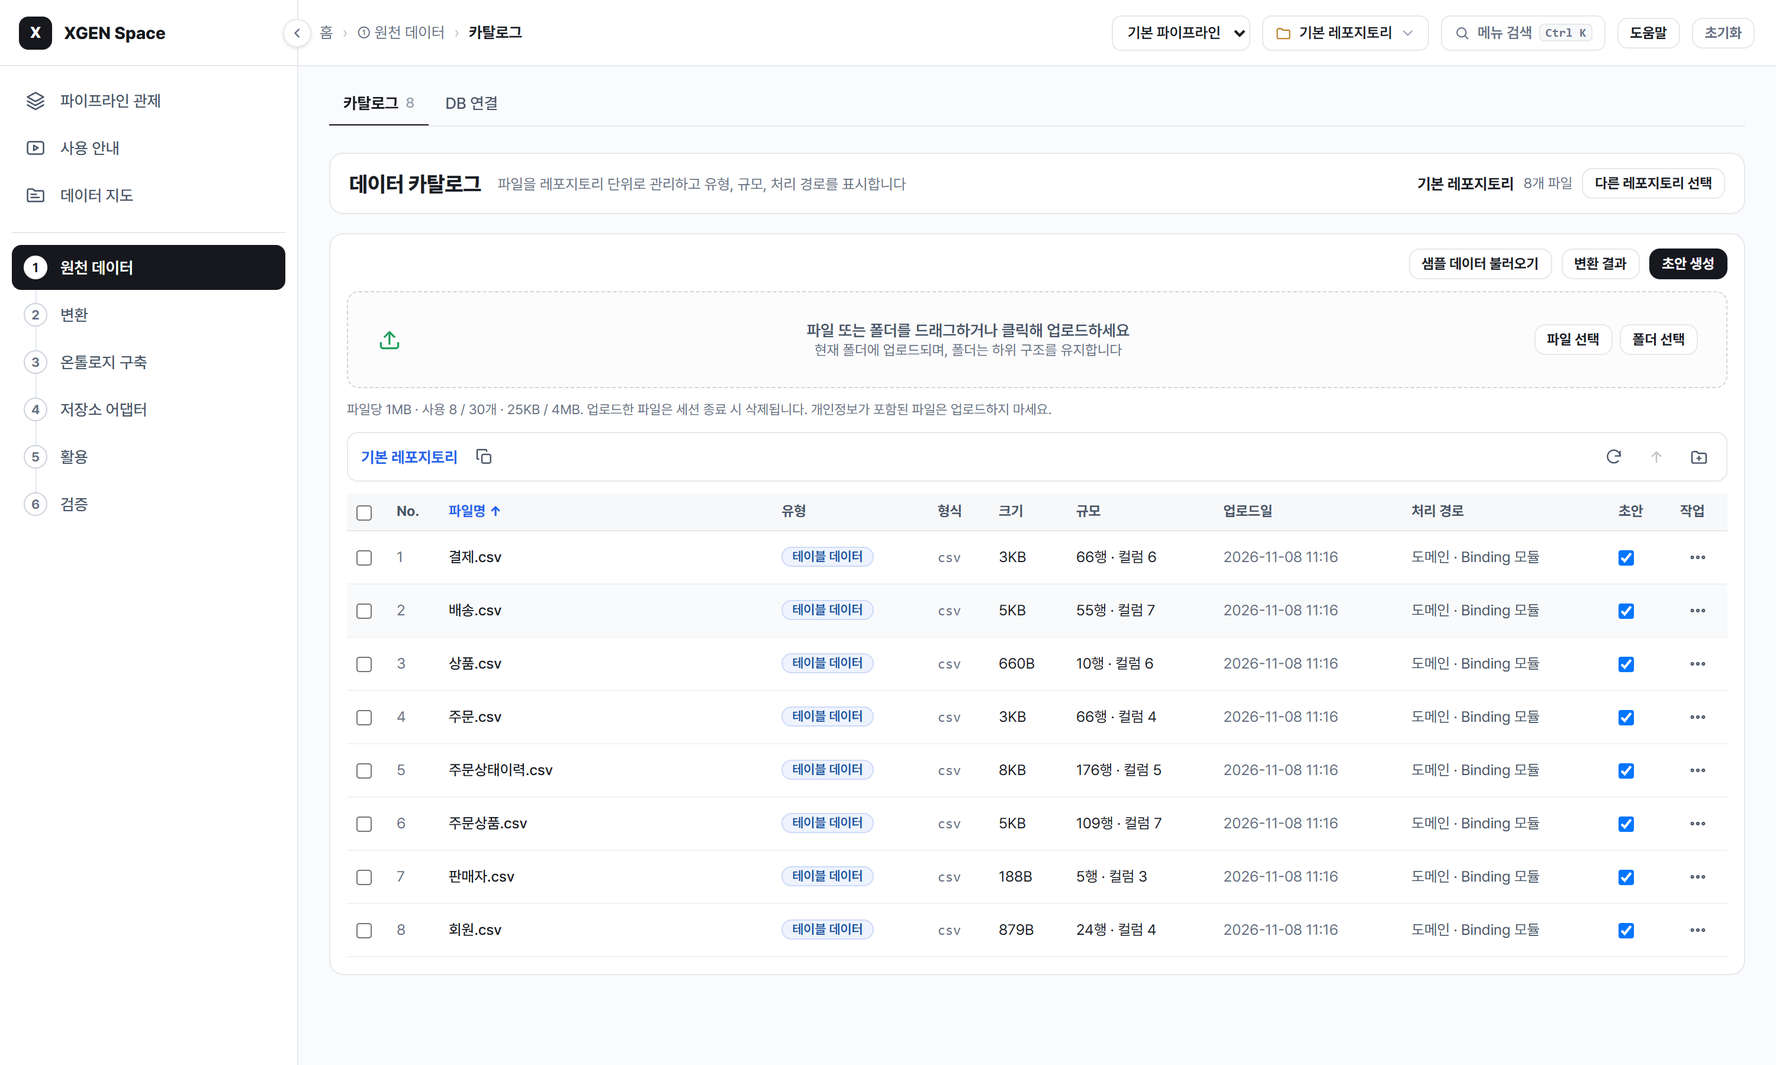
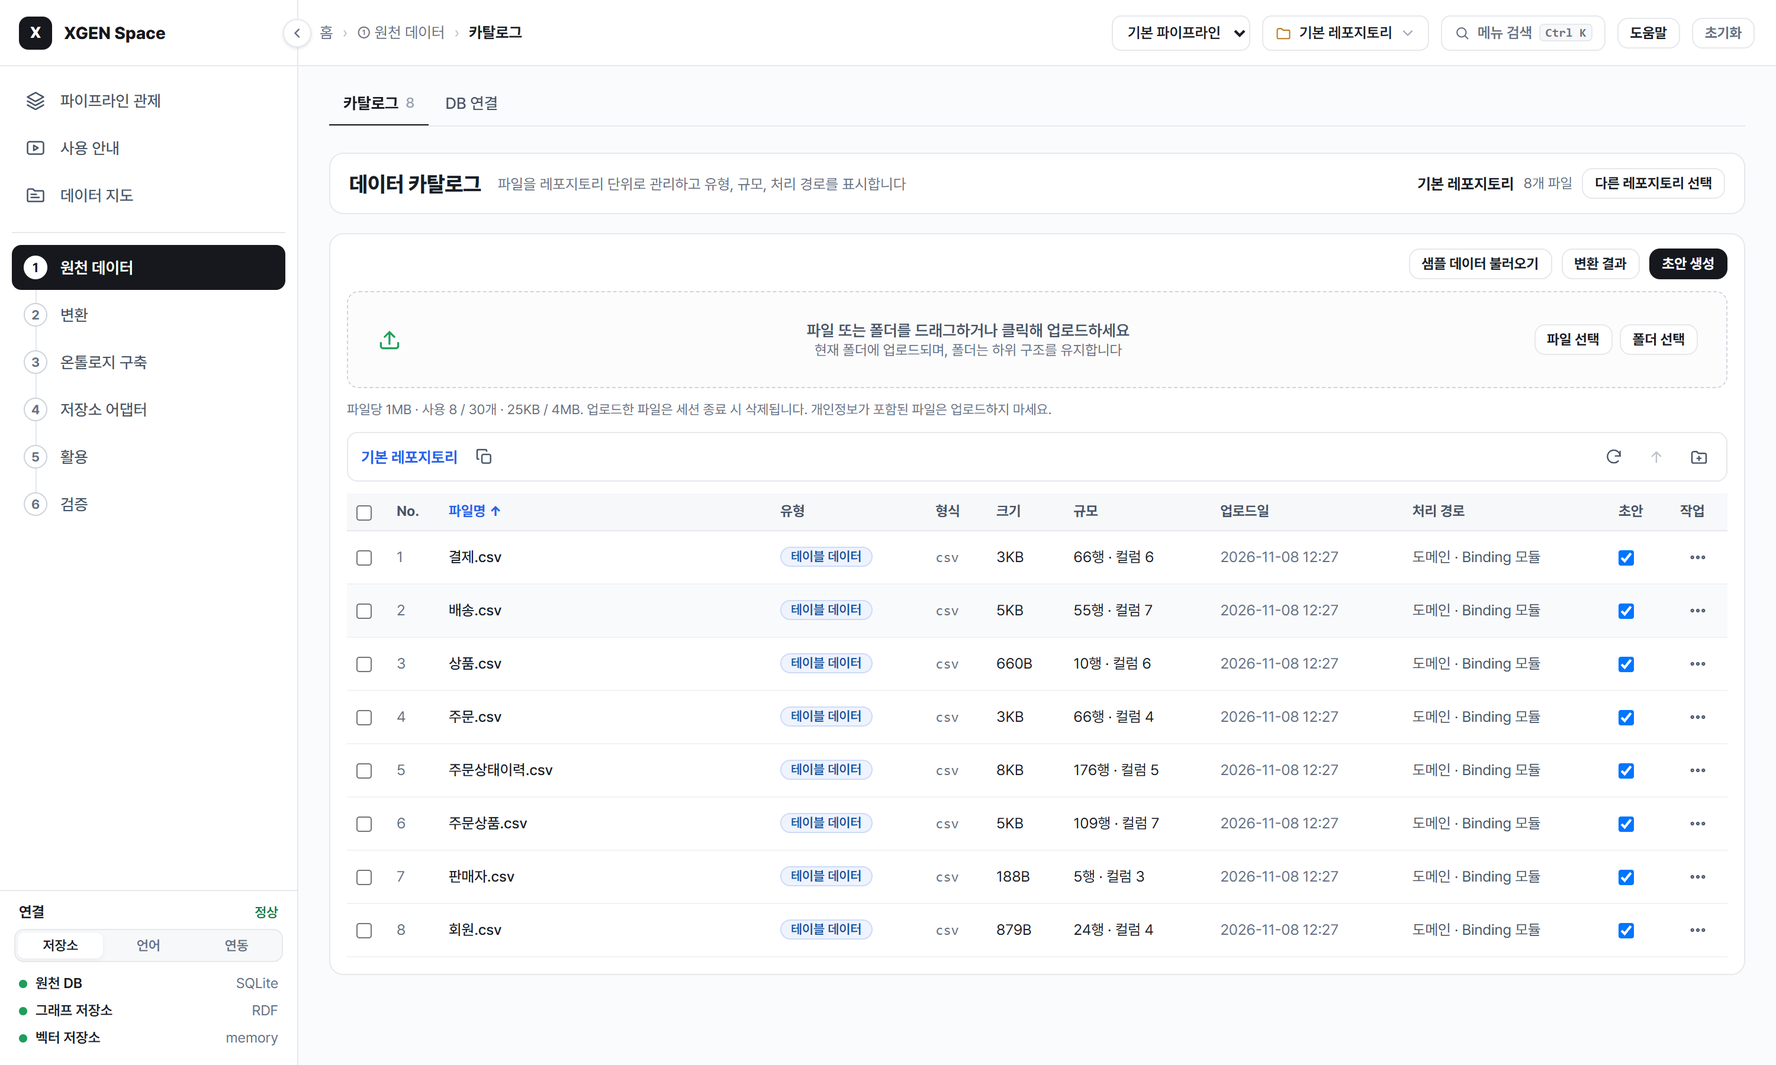
Show at the foot of the sidebar what the space is connected to, tried now
The card removed in the last commit was the right place with the wrong
content: it named the domain modules and listed the stores by their
configuration keys, with a green dot that was never measured. The place
now says what is connected, and the dots are measurements.

- GET connections tries each store with a one-row query and gives its
  kind, the language it reads, the response time, or why it did not
  answer; the vector stores by the error the space keeps; the embedding
  model; the language model by how its last call went (off, not called
  yet, answered, failed); and whether the REST API is served.
- The sidebar shows it under three tabs, stores, languages and links, with
  a green, red or grey dot per row; a row opens the screen that measures
  it, and its tooltip gives the response time or the error. The header
  says whether anything does not answer. It is fetched when the page
  opens, when the pipeline changes and every 30 seconds while the page
  is visible. Folded and narrow sidebars leave it out, as before.
- A store class says its kind (sqlite, rdflib, sparql, neo4j, gremlin,
  gateway, dbapi), so a store opened by a draft is named as well as one
  from a configuration file. A model client from openai_chat says its
  kind. The session keeps how the model's last call went.
- The adapters screen and the connections share one helper for the
  language a store reads.
- The board's help says what the dots mean.

The README images are rendered again with the panel.

diff --git a/src/xgen_space/web/static/app.js b/src/xgen_space/web/static/app.js
@@ -96,6 +96,7 @@
       '수치를 선택하면 해당 화면으로 이동합니다. 상단 탭에서 단계를 선택하면 해당 단계를 강조합니다.',
       '통과 조건을 충족하지 못한 단계가 있으면 해당 단계에서 흐름이 중단됩니다. 연쇄 장애에서 원인 경로를 확인합니다.',
       '화면 상단의 파이프라인 목록에서 적용한 파이프라인을 선택해 전환합니다. 초안을 적용하면 새 파이프라인이 추가됩니다.',
+      '사이드바 아래 [연결]은 저장소, 쿼리 언어, 연동 항목이 지금 응답하는지 30초마다 확인해 표시합니다. 초록은 응답, 빨강은 응답 없음, 회색은 사용하지 않거나 아직 호출하지 않은 항목입니다.',
       '[장애 테스트]를 선택하면 설정한 장애 시나리오를 적용해 알람과 원인 경로를 확인합니다. [복구]를 선택하면 원래 상태로 복원됩니다.']],
     ['flow', '원천 데이터부터 검증까지 단계별 처리 현황과 통과 조건을 확인합니다.', [
       '단계별 카드에서 [열기]를 선택하면 해당 화면으로 이동합니다.',
@@ -321,7 +322,7 @@
     st: null, tab: 'library', kind: 'all', impact: null, pos: {}, sel: null, gsel: null, obj: null,
     ru: null, met: {}, sp: null, sr: { text: '', res: null, busy: false, more: null, moreBusy: false }, dg: null, dgsel: null, dsec: null, dq: null, docpos: {},
     vs: { kind: 'qdrant', url: '' }, gw: { url: '', connection: '', dialect: 'postgres', token: '' }, ad: null, adrep: null, adbusy: false, adrs: null,
-    ex: { tree: null, items: null, node: '', open: { 'group:repos': true }, tab: 'store', q: '', kind: '', hits: null, sel: {}, tsel: {}, edit: null, moving: null, busy: false, loading: false, error: '' }, amap: null, mapn: null, mapsel: null, mappos: {}, conn: null, help: false,
+    ex: { tree: null, items: null, node: '', open: { 'group:repos': true }, tab: 'store', q: '', kind: '', hits: null, sel: {}, tsel: {}, edit: null, moving: null, busy: false, loading: false, error: '' }, amap: null, mapn: null, mapsel: null, mappos: {}, conn: null, links: null, ltab: 'store', help: false,
     q: { mode: 'list', name: null, params: {}, role: '', principal: {}, target: 'sql:postgres', res: null,
       lang: 'sparql', text: '', dirty: false, question: '', busy: false },
     d: { name: null, key: null, keys: {}, res: null, proposal: null, params: {}, role: '', audit: [], busy: false },
@@ -467,7 +468,44 @@
     return `<nav class="stabs" aria-label="${esc(g[1])}">${g[2].map(tab).join('')}${seg}</nav>`;
   }
 
+  // ---- what the space is connected to: the server tries each store when asked, so a dot is a measurement, never a default --
+  const LINKS_EVERY = 30000;
+  const LINK_WORD = { ok: '연결', bad: '응답 없음', idle: '호출 전', off: '사용 안 함' };
+  const LLM_KIND = { openai: 'OpenAI 호환 API' };
+
+  async function loadLinks() {
+    if (loadLinks.busy) return;
+    loadLinks.busy = true;
+    loadLinks.at = Date.now();
+    try { S.links = await api('connections'); } catch (e) { /* the last measurement stays until the next one */ }
+    loadLinks.busy = false;
+    renderSide();
+  }
+
+  function sideLinks() {
+    const c = S.links;
+    if (!c) return '';
+    const row = (state, name, detail, tab, tip) => `<a class="lrow" href="#${tab}" data-tip="${esc(tip)}"><i class="dot ${state}"></i><b>${esc(name)}</b><span>${esc(detail)}</span></a>`;
+    const role = (b) => (b.source ? '원천 DB' : '그래프 저장소');
+    const said = (b) => b.error || `${LINK_WORD[b.state]} · 응답 ${b.ms}ms`;
+    const llm = c.llm.state === 'ok' ? (LLM_KIND[c.llm.kind] || LINK_WORD.ok) : LINK_WORD[c.llm.state];
+    const rows = {
+      store: c.stores.map((b) => row(b.state, role(b), BACKEND_KIND[b.kind] || b.kind || b.name, 'adapters', said(b)))
+        .concat(c.vectors.map((v) => row(v.state, '벡터 저장소', v.kind, 'vectors', v.error || LINK_WORD[v.state]))),
+      lang: c.stores.map((b) => row(b.state, b.language, role(b), 'query', said(b)))
+        .concat(c.translate.length ? [row('off', '변환만', `${count(c.translate.length)}개 언어`, 'adapters', c.translate.join(', '))] : []),
+      link: [row('ok', '임베딩 모델', `${c.embedder.kind} · ${c.embedder.dim}차원`, 'vectors', c.embedder.name),
+        row(c.llm.state, '언어 모델', llm, 'search', c.llm.error || (c.llm.at ? `마지막 호출 ${c.llm.at.replace('T', ' ')}` : LINK_WORD[c.llm.state])),
+        row(c.rest ? 'ok' : 'off', '외부 API', c.rest ? '/v1' : LINK_WORD.off, 'connect', c.rest ? 'REST /v1' : '')],
+    };
+    const bad = c.stores.concat(c.vectors, [c.llm]).filter((x) => x.state === 'bad').length;
+    const tabs = [['store', '저장소'], ['lang', '언어'], ['link', '연동']].map(([k, w]) => `<button class="${S.ltab === k ? 'on' : ''}" data-act="ltab" data-k="${k}" role="tab" aria-selected="${S.ltab === k}">${w}</button>`).join('');
+    return `<div class="sfoot"><div class="lhead"><b>연결</b><span class="${bad ? 'bad' : 'ok'}">${bad ? `응답 없음 ${bad}` : '정상'}</span></div>
+      <div class="lseg" role="tablist" aria-label="연결 종류">${tabs}</div><div class="lrows">${rows[S.ltab].join('')}</div></div>`;
+  }
+
   function renderSide() {
+    if (S.st && !loadLinks.busy && (!S.links || S.links.pipeline !== S.st.pipeline || Date.now() - (loadLinks.at || 0) > LINKS_EVERY)) loadLinks();
     const wait = S.mg.st && S.mg.st.workspace && S.mg.st.workspace.dirty;
     const place = (i) => {
       const [no, label, keys] = NAV_GROUP[i];
@@ -481,7 +519,7 @@
     const word = S.slim ? '사이드바 펼치기' : '사이드바 접기';
     const nav = $('#side .snav');
     const kept = nav ? nav.scrollTop : 0;
-    $('#side').innerHTML = `${BRAND}<div class="snav"><div class="nlead">${at((g) => !g[0])}</div><div class="steps">${at((g) => g[0])}</div></div>
+    $('#side').innerHTML = `${BRAND}<div class="snav"><div class="nlead">${at((g) => !g[0])}</div><div class="steps">${at((g) => g[0])}</div></div>${sideLinks()}
       <button class="sidetoggle" data-act="slim" aria-label="${word}" aria-expanded="${!S.slim}" data-tip="${word}">${ui('fold')}</button>`;
     $('#side .snav').scrollTop = kept;
     if (S.tab !== renderSide.tab) {
@@ -3979,6 +4017,7 @@ ${controls}${body}`;
     fsample: () => catalogCall('files/sample', {}),
     fout: (t) => catalogCall('catalog/include', { paths: [t.dataset.name], on: false }),
     ruopen: (t) => { S.ruopen = S.ruopen === t.dataset.d ? null : t.dataset.d; render(); },
+    ltab: (t) => { S.ltab = t.dataset.k; renderSide(); },
     slim: () => {
       S.slim = !S.slim;
       try { localStorage.setItem('xspace-slim', S.slim ? '1' : ''); } catch (e) { /* stays for this visit */ }
@@ -4633,6 +4672,7 @@ ${controls}${body}`;
 
   S.tab = (location.hash.slice(1) && NAV.some(([k]) => k === location.hash.slice(1))) ? location.hash.slice(1) : 'monitor';
   setInterval(() => { const c = $('#mclock'); if (c) c.textContent = new Date().toTimeString().slice(0, 8); }, 1000);
+  setInterval(() => { if (S.st && document.visibilityState === 'visible') loadLinks(); }, LINKS_EVERY);
   wire();
   load().catch(fail);
 })();

diff --git a/src/xgen_space/web/static/app.css b/src/xgen_space/web/static/app.css
@@ -312,8 +312,23 @@ button.chip:hover { border-color:var(--blue); color:var(--blue); }
 .mparts dt { font-weight:600; color:var(--ink); }
 .mparts dd { margin:0; color:#475467; }
 .nav.on .n { color:#c9ced6; }
+.sfoot { border-top:1px solid var(--line); padding:10px 12px 12px; display:flex; flex-direction:column; gap:7px; font-size:12px; }
+.sfoot .lhead { display:flex; align-items:center; justify-content:space-between; padding:0 4px; }
+.sfoot .lhead b { color:var(--ink); font-size:12.5px; }
+.sfoot .lhead span { font-size:11.5px; font-weight:600; }
+.sfoot .lhead .ok { color:#137a44; } .sfoot .lhead .bad { color:var(--bad); }
+.sfoot .lseg { display:flex; background:var(--panel); border:1px solid var(--line); border-radius:8px; padding:2px; gap:2px; }
+.sfoot .lseg button { flex:1; border:0; background:none; padding:4px 0; border-radius:6px; font-size:11.5px; font-weight:600; color:var(--muted); cursor:pointer; }
+.sfoot .lseg button.on { background:#fff; color:var(--ink); box-shadow:0 1px 3px rgba(19,33,60,.08); }
+.sfoot .lrows { display:flex; flex-direction:column; gap:1px; }
+.sfoot .lrow { display:grid; grid-template-columns:7px auto minmax(0, 1fr); align-items:center; gap:7px; padding:4px; border-radius:6px; color:var(--ink); text-decoration:none; }
+.sfoot .lrow:hover { background:var(--panel); }
+.sfoot .lrow b { font-weight:600; white-space:nowrap; }
+.sfoot .lrow span { color:var(--muted); text-align:right; white-space:nowrap; overflow:hidden; text-overflow:ellipsis; }
+.sfoot .dot.bad { background:var(--bad); } .sfoot .dot.off { background:#c4ccd6; }
+.sfoot .dot.idle { background:none; box-shadow:inset 0 0 0 1.5px #98a2b3; }
 @media (min-width: 1101px) {
-  .app.slim .bname, .app.slim .nl, .app.slim .snav .nav .chip { display:none; }
+  .app.slim .bname, .app.slim .sfoot, .app.slim .nl, .app.slim .snav .nav .chip { display:none; }
   .app.slim .sbrand { justify-content:center; padding:13px 0; }
   .app.slim .snav { overflow:visible; padding:10px 12px; }
   .app.slim .snav .nav { justify-content:center; padding:0; }
@@ -453,7 +468,7 @@ kbd { font-family:"JetBrains Mono",Consolas,monospace; font-size:10.5px; border:
   .app, .app.slim { grid-template-columns:minmax(0, 1fr); grid-template-rows:auto auto auto minmax(0, 1fr); }
   .side { grid-row:auto; }
   .sbrand { min-height:0; padding:8px 12px; }
-  .sidetoggle, .steps::before { display:none; }
+  .sfoot, .sidetoggle, .steps::before { display:none; }
   .side { overflow:hidden; }
   .snav { flex-direction:row; gap:4px; overflow-x:auto; padding:6px 12px; flex:none; }
   .nlead, .steps { display:contents; }

diff --git a/src/xgen_space/web/space_api.py b/src/xgen_space/web/space_api.py
@@ -401,16 +401,13 @@ class SpaceMixin:
 
     def adapters(self) -> dict:
         from xgen_space.compile.base import CompileError
-        from xgen_space.compile.sql import _NAMES as SQL_NAMES
         from xgen_space.embed import _KINDS as EMBEDDERS
         from xgen_space.preview import TARGETS
 
         self._sync_space()
         st = self.studio
         sp = self.space.state()
-
-        def target(lang: str, dialect: str) -> str:  # the language a store reads, named as the compilers are
-            return f"sql:{SQL_NAMES.get(dialect, dialect) or 'postgres'}" if lang == "sql" else lang
+        target = _target
 
         backends = [{"name": n, "language": b.capabilities.language, "dialect": b.capabilities.dialect, "source": n == st.source,
                      "write": b.capabilities.write, "load": b.capabilities.load,
@@ -433,6 +430,44 @@ class SpaceMixin:
                 "vector_kinds": known_kinds(), "embedder": sp["embedder"], "embedder_kinds": sorted(EMBEDDERS),
                 "retriever": self.space.knowledge(st.onto, self._terms()).describe(),
                 "reasoners": [r.describe() for r in st.reasoners.values()], "can_connect": self.data.allow_connect}
+
+    def connections(self) -> dict:
+        """What the space is connected to, tried now, for the sidebar: each store answers a one-row query or says why
+        not, a vector store by the error the space keeps, the language model by how its last call went. It names kinds,
+        never what the data is about."""
+        from xgen_space.preview import TARGETS
+        from xgen_space.web.api import said
+
+        self._sync_space()
+        st, sp = self.studio, self.space
+        kinds = self.origin.get("backends") or {}
+        probe = next(((n, t.key) for n, t in st.onto.objects.items() if t.table and t.key), None)
+        labels = {_target(*t.split(":", 1)) if t.startswith("sql:") else t: label for t, label in TARGETS}
+        stores = []
+        for n, b in st.backends.items():
+            started, error = time.perf_counter(), ""
+            try:
+                if probe is None:
+                    raise LookupError("원천 테이블과 연결된 객체가 없어 질의하지 못했습니다.")
+                st.run({"match": {"x": probe[0]}, "return": [f"x.{probe[1]}"], "limit": 1}, backend=n)
+            except Exception as e:  # a store that does not answer is what this shows, not a failure of the page
+                error = said(e)
+            t = _target(b.capabilities.language, b.capabilities.dialect)
+            stores.append({"name": n, "kind": kinds.get(n) or b.kind, "source": n == st.source,
+                           "language": labels.get(t) or ("SQL" if t.startswith("sql:") else t.upper()),
+                           "state": "bad" if error else "ok", "error": error, "ms": round((time.perf_counter() - started) * 1000)})
+        ran = {_target(b.capabilities.language, b.capabilities.dialect) for b in st.backends.values()}
+        emb, last = sp.embedder.describe(), self._llm_last
+        return plain({
+            "pipeline": self.pipeline, "stores": stores,
+            "vectors": [{"name": n, "kind": s.kind, "state": "bad" if sp.errors.get(n) else "ok", "error": sp.errors.get(n, "")}
+                        for n, s in sp.stores.items()],
+            "translate": [label for t, label in labels.items() if t not in ran],
+            "embedder": {"kind": emb.get("kind", ""), "name": emb.get("name", ""), "dim": emb.get("dim")},
+            "llm": {"kind": getattr(self.llm, "kind", "") if self.llm else "", "at": (last or {}).get("at", ""),
+                    "error": (last or {}).get("error", ""),
+                    "state": "off" if self.llm is None else "idle" if last is None else "ok" if last["ok"] else "bad"},
+            "rest": bool(getattr(self.data, "rest", False))})
 
     def adapters_check(self) -> dict:
         """The tests that make swapping safe, run now on what this space holds."""
@@ -727,6 +762,13 @@ class SpaceMixin:
         from xgen_space.rest import tool_list
 
         return {"rest": bool(getattr(self.data, "rest", False)), "openapi": "/v1/openapi.json", "tools": tool_list(), "gateway": self.data.allow_connect}
+
+
+def _target(lang: str, dialect: str) -> str:
+    """The language a store reads, named as the compilers are."""
+    from xgen_space.compile.sql import _NAMES as SQL_NAMES
+
+    return f"sql:{SQL_NAMES.get(dialect, dialect) or 'postgres'}" if lang == "sql" else lang
 
 
 def attach(session: Any) -> None:

diff --git a/tests/test_web.py b/tests/test_web.py
@@ -37,6 +37,30 @@ def test_state_lists_the_library_and_the_schema_graph(session):
     json.dumps(st)
 
 
+def test_the_sidebar_shows_what_answers_now_not_what_is_configured(session):
+    c = session.connections()
+    assert [(s["kind"], s["state"]) for s in c["stores"]] == [("sqlite", "ok"), ("rdflib", "ok")]
+    assert c["llm"]["state"] == "off" and not c["rest"] and "Cypher 25" in c["translate"]
+    session.studio.backends["graph"].execute = lambda *a, **k: (_ for _ in ()).throw(ConnectionError("refused"))
+    down = next(s for s in session.connections()["stores"] if s["name"] == "graph")
+    assert down["state"] == "bad" and "refused" in down["error"]  # a store that stops answering says so on the next look
+    said = iter([OSError("unreachable"), "data"])
+
+    def llm(system: str, user: str) -> str:
+        out = next(said)
+        if isinstance(out, Exception):
+            raise out
+        return out
+    session.llm = llm
+    assert session.connections()["llm"]["state"] == "idle"  # set up, not called yet
+    ask, _ = session._budgeted()
+    with pytest.raises(OSError):
+        ask("s", "u")
+    assert session.connections()["llm"]["state"] == "bad"
+    ask("s", "u")
+    assert session.connections()["llm"]["state"] == "ok"
+
+
 def test_unplug_shows_the_impact_and_plugs_back(session):
     imp = session.impact("commerce")
     assert not imp["ok"] and set(imp["dependents"]) == {"acme-overlay", "commerce-bindings", "fashion", "party-identity"}

diff --git a/src/xgen_space/web/api.py b/src/xgen_space/web/api.py
@@ -255,6 +255,7 @@ class StudioSession(SpaceMixin):
                  repositories: Repositories | None = None):
         self.studio = studio
         self.llm = llm
+        self._llm_last: dict | None = None  # how the model's last call went, for the sidebar
         self.data = data or DataOptions()
         self.origin = origin or {"kind": "config"}
         self.lock = threading.RLock()
@@ -602,7 +603,13 @@ class StudioSession(SpaceMixin):
             if tries and time.monotonic() - started > within:
                 raise TimeoutError("no time left for another attempt")
             tries.append(1)
-            return model(system, user)
+            try:
+                out = model(system, user)
+            except Exception as e:
+                self._llm_last = {"ok": False, "at": datetime.now().isoformat(timespec="seconds"), "error": said(e)}
+                raise
+            self._llm_last = {"ok": True, "at": datetime.now().isoformat(timespec="seconds")}
+            return out
 
         return llm, tries
 

diff --git a/src/xgen_space/backends/sql.py b/src/xgen_space/backends/sql.py
@@ -14,6 +14,8 @@ _DDL = re.compile(r"\s*(CREATE|ALTER|DROP|RENAME)\b", re.IGNORECASE)
 
 
 class SqliteBackend(Backend):
+    kind = "sqlite"
+
     def __init__(self, path: str = ":memory:", *, conn: sqlite3.Connection | None = None, name: str = "sqlite"):
         self.conn = conn or sqlite3.connect(path, check_same_thread=False)
         self.name = name
@@ -55,6 +57,7 @@ class SqliteBackend(Backend):
 
 class DbApiBackend(Backend):
     """Any DB-API connection; `paramstyle` follows the driver (psycopg: format, oracledb: numeric, or pymssql)."""
+    kind = "dbapi"
 
     def __init__(self, conn: Any, dialect: str = "postgres", *, paramstyle: str = "format", name: str = ""):
         self.conn = conn

diff --git a/src/xgen_space/backends/rdf.py b/src/xgen_space/backends/rdf.py
@@ -40,6 +40,8 @@ def _walk(ctx, part):
 
 
 class RdflibBackend(Backend):
+    kind = "rdflib"
+
     def __init__(self, graph: Any = None, name: str = "rdflib"):
         try:
             import rdflib
@@ -77,6 +79,7 @@ def _py(v: Any) -> Any:
 
 class SparqlEndpointBackend(Backend):
     """Fuseki, GraphDB, Stardog, Virtuoso, Oxigraph server, Neptune RDF: anything speaking SPARQL 1.1 over HTTP."""
+    kind = "sparql"
 
     def __init__(self, query_url: str, *, update_url: str = "", gsp_url: str = "", user: str = "",
                  password: str = "", timeout: float = 60, name: str = "sparql"):

diff --git a/src/xgen_space/backends/gateway.py b/src/xgen_space/backends/gateway.py
@@ -55,6 +55,8 @@ def inline(sql: str, args: tuple | list, dialect: str) -> str:
 
 
 class GatewayBackend(Backend):
+    kind = "gateway"
+
     def __init__(self, url: str, *, connection: Any, dialect: str = "postgres", token: str = "", token_env: str = "", max_rows: int = 500,
                  timeout: float = 30.0, fields: dict | None = None, name: str = "gateway"):
         self.url, self.connection, self.max_rows, self.timeout, self.name = url, connection, int(max_rows), float(timeout), name

diff --git a/src/xgen_space/web/server.py b/src/xgen_space/web/server.py
@@ -482,6 +482,8 @@ def make_handler(sessions: Sessions, *, ask_limit: RateLimit, quiet: bool = Fals
                     return s.space_map_node(a["node"])
                 if route == "adapters":
                     return s.adapters()
+                if route == "connections":
+                    return s.connections()
                 if route == "integrations":
                     return s.integrations()
                 if route == "monitor":

diff --git a/src/xgen_space/backends/graph.py b/src/xgen_space/backends/graph.py
@@ -9,6 +9,7 @@ from xgen_space.compile.base import Compiled
 
 class Neo4jBackend(Backend):
     """Neo4j through the official driver; Memgraph and Neptune openCypher accept the same text."""
+    kind = "neo4j"
 
     def __init__(self, driver: Any, *, database: str | None = None, name: str = "neo4j"):
         self.driver = driver

diff --git a/src/xgen_space/nl.py b/src/xgen_space/nl.py
@@ -284,6 +284,7 @@ def openai_chat(url: str, model: str, *, key: str = "", extra: dict | None = Non
         return openai_chat(url, model, key=key, extra=wider, timeout=max(seconds, timeout))
 
     call.roomier = roomier
+    call.kind = "openai"  # what a page names the connection by
     return call
 
 

diff --git a/src/xgen_space/backends/gremlin.py b/src/xgen_space/backends/gremlin.py
@@ -16,6 +16,8 @@ BATCH = 50
 
 
 class GremlinBackend(Backend):
+    kind = "gremlin"
+
     def __init__(self, url: str = "ws://localhost:8182/gremlin", *, client: Any = None, source: str = "g",
                  name: str = "gremlin"):
         if client is None:
